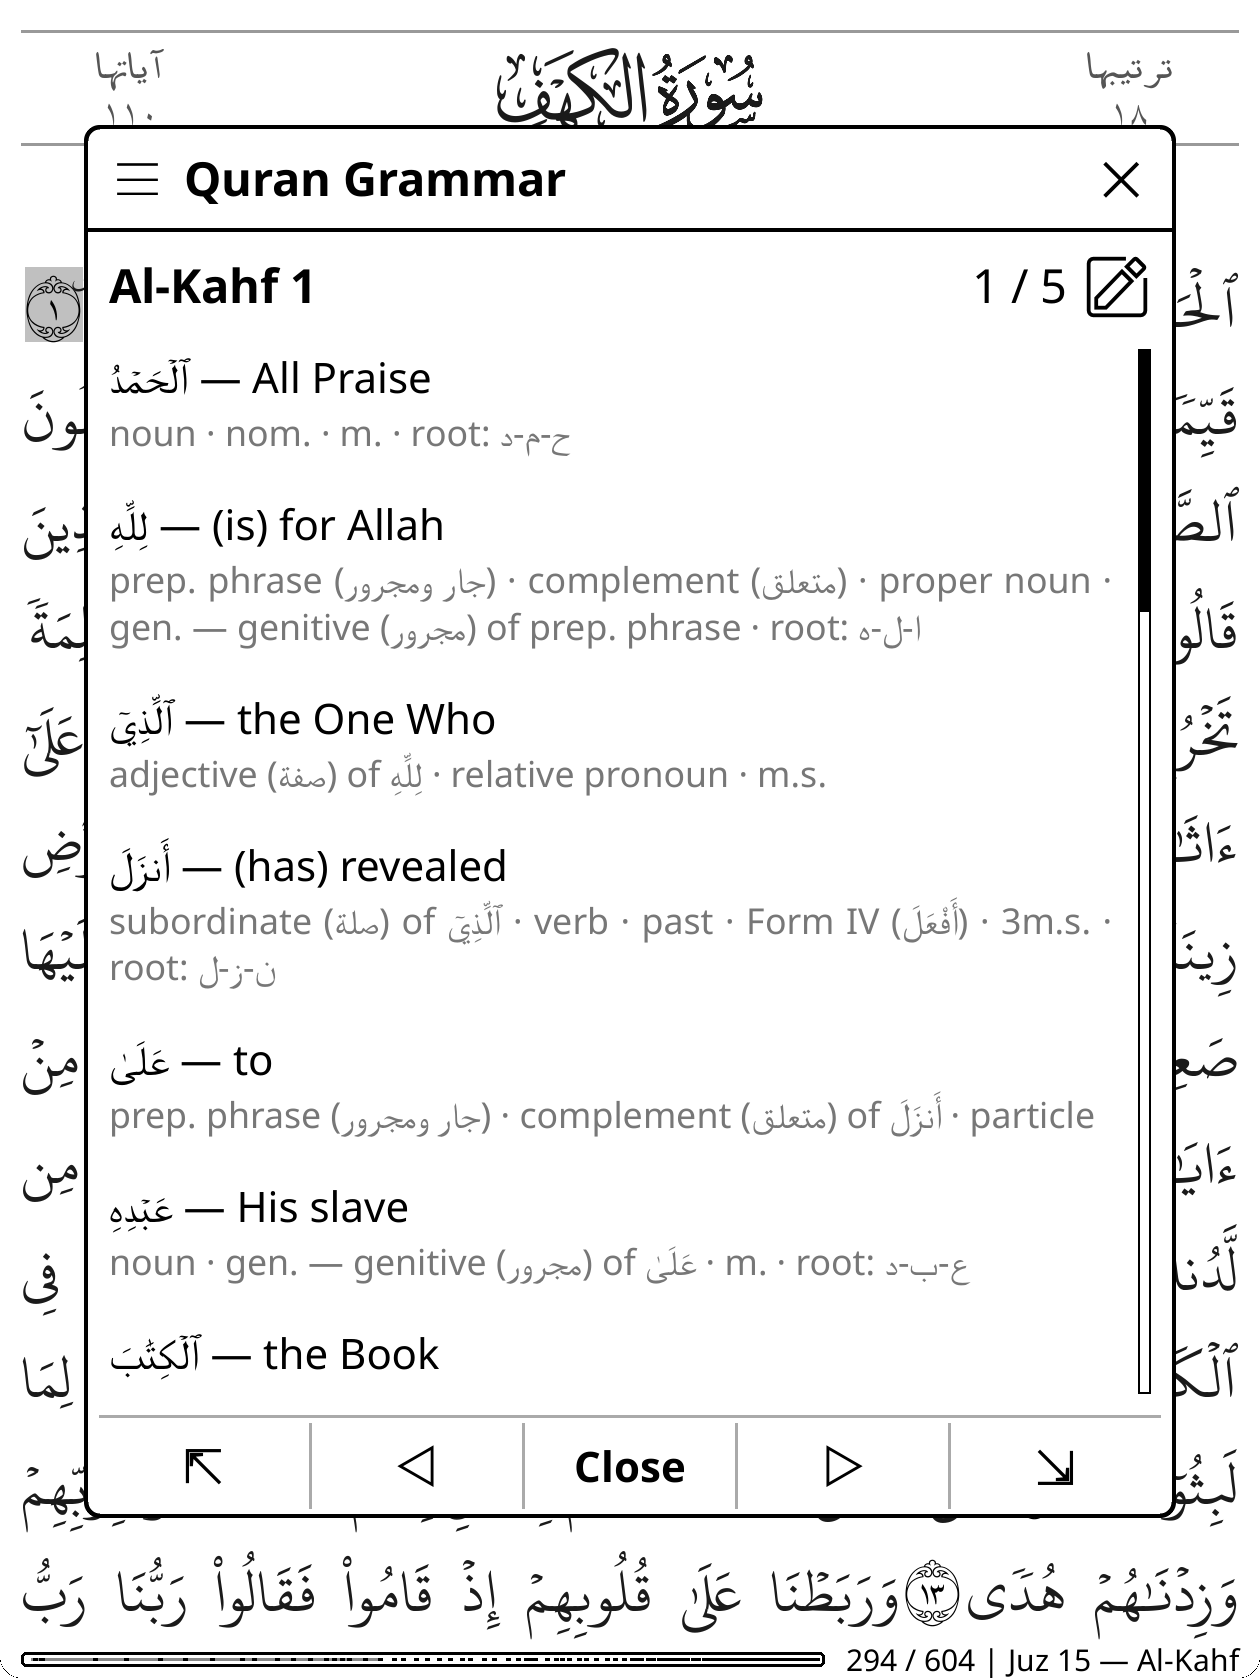
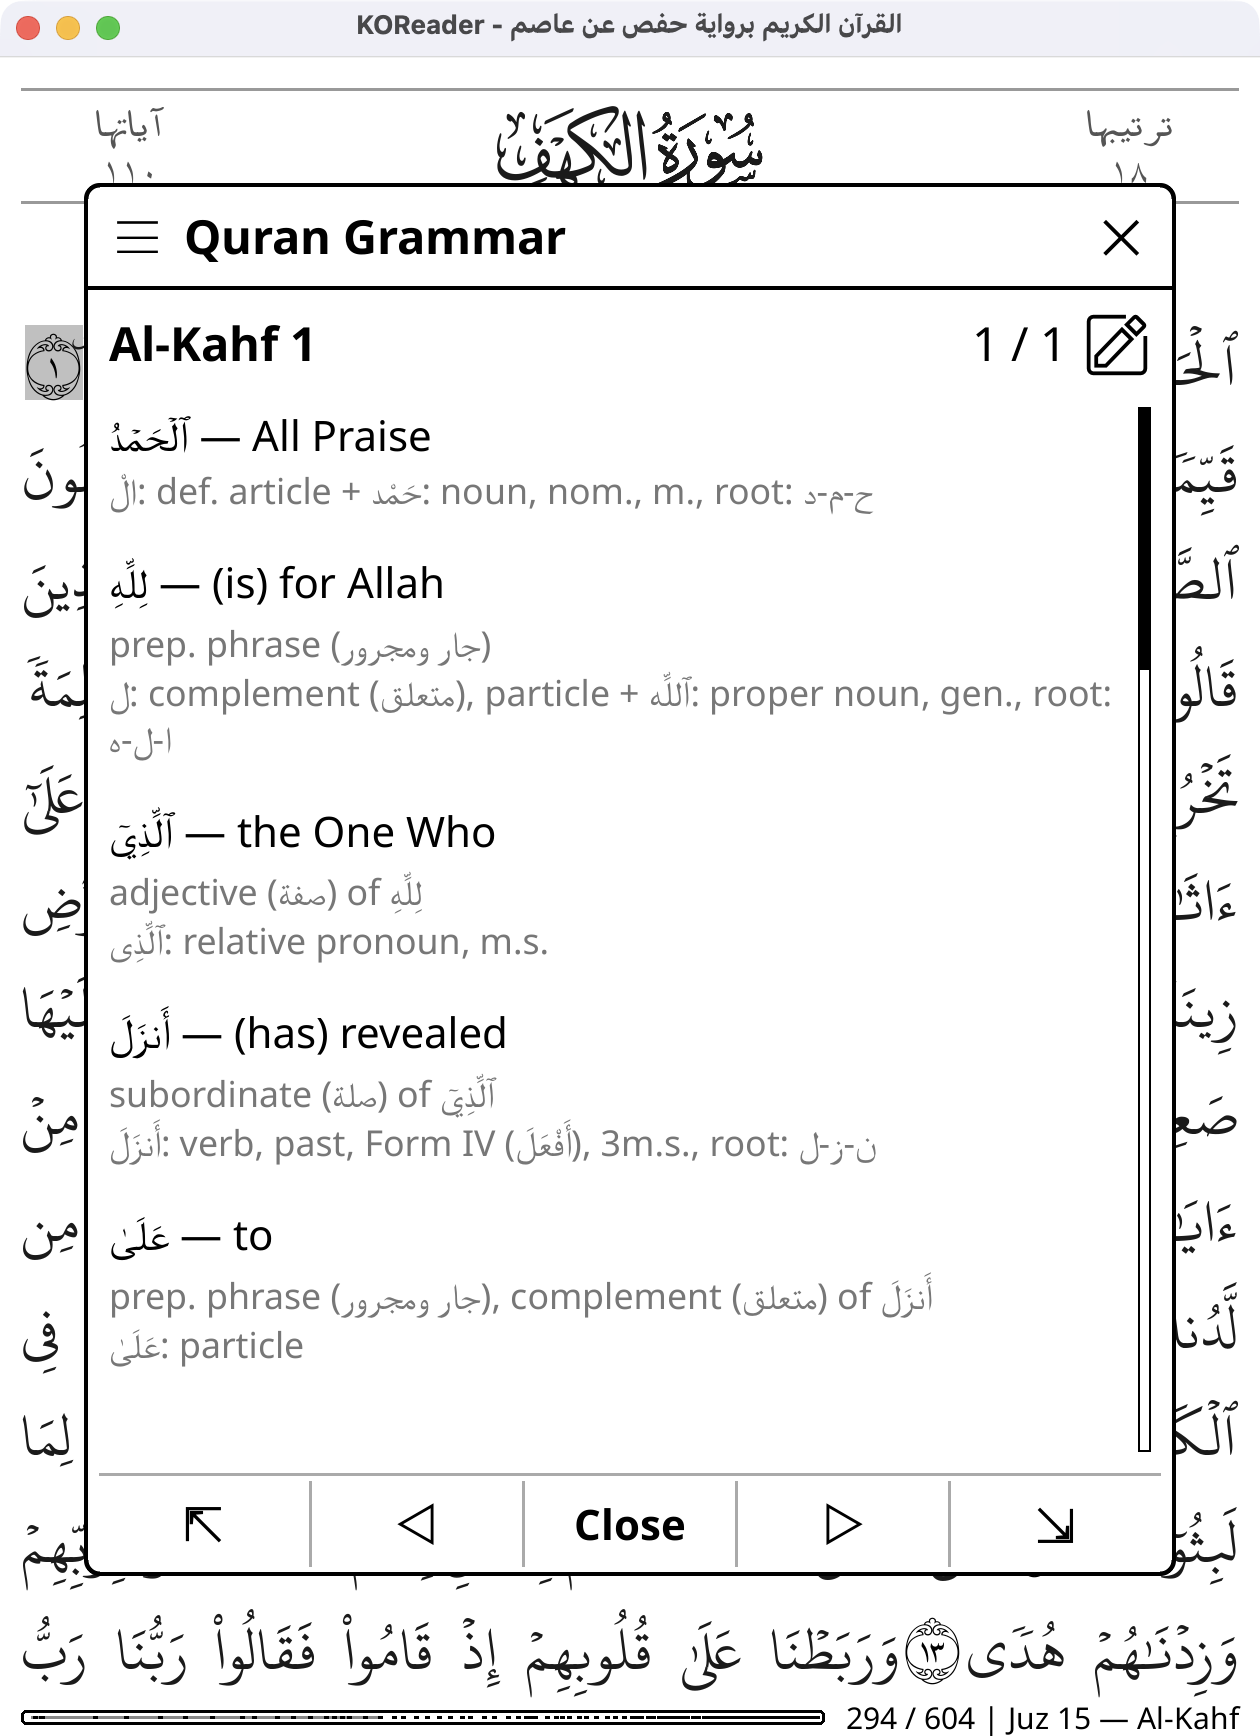
grammar dictionary: display polish and cross-ayah references
- Rename "conjunction" role label to "conjoined" to distinguish syntactic
  role (conjoined with X) from POS label (conjunction particle)
- Cross-ayah references show target word + ayah location instead of vague
  phrase type fallback (e.g. "conjoined (معطوف) with يُنذر in 18:2")
- Per-role prepositions: "conj" uses "with", others default to "of"
- Use comma separator instead of center dot for lighter visual weight
- I'rab section: dir="rtl" on paragraphs for correct BiDi base direction
  (fixes ornamental bracket placement and text alignment)

diff --git a/tools/build_grammar_dictionary.py b/tools/build_grammar_dictionary.py
@@ -94,7 +94,7 @@ SYNTAX_ROLE_LABELS = {
     "gen": ("genitive", "مجرور"),
     "poss": ("possessive", "مضاف إليه"),
     "adj": ("adjective", "صفة"),
-    "conj": ("conjunction", "عطف"),
+    "conj": ("conjoined", "معطوف"),
     "sub": ("subordinate", "تابع"),
     "link": ("complement", "متعلق"),
     "circ": ("circumstantial", "حال"),
@@ -388,6 +388,7 @@ def load_eqtb(path: Path) -> tuple[dict, dict, dict]:
             ref_id = int(row["ref_token_id"])
             source_word_pos = None
             source_phrase = None
+            source_ayah_ref = None  # cross-ayah: "ch:vs" string
             if ref_id in token_map:
                 src_row = token_map[ref_id]
                 src_loc = _eqtb_val(src_row, "location")
@@ -396,6 +397,10 @@ def load_eqtb(path: Path) -> tuple[dict, dict, dict]:
                     src_ayah = f"{src_parts[0]}:{src_parts[1]}"
                     if src_ayah == ayah_key:
                         source_word_pos = int(src_parts[2])
+                    else:
+                        # Cross-ayah: store "ch:vs" + target word text
+                        src_token = src_row.get("uthmani_token", "")
+                        source_ayah_ref = (src_ayah, src_token)
                 src_cl = _eqtb_val(src_row, "constituent_label")
                 if src_cl and src_cl in PHRASE_TYPE_LABELS:
                     source_phrase = src_cl
@@ -411,6 +416,7 @@ def load_eqtb(path: Path) -> tuple[dict, dict, dict]:
                 "ar": ar_label,
                 "source_word": source_word_pos,
                 "source_phrase": source_phrase,
+                "source_ayah_ref": source_ayah_ref,
                 "seg_num": seg_num,
             }
 
@@ -612,12 +618,25 @@ def _bidi_paren(ar: str) -> str:
     return f"\u200E({ar}\u200E)"
 
 
+def _role_preposition(role: str) -> str:
+    """Preposition connecting a role label to its target word."""
+    return _ROLE_PREPOSITIONS.get(role, "of")
+
+
+# Roles that use a preposition other than "of" when showing targets
+_ROLE_PREPOSITIONS: dict[str, str] = {
+    "conj": "with",
+}
+
+
 def _format_role(role_dict: dict, qpc_words: list[str] | None,
                   current_word_pos: int = 0) -> str:
     """Format a single syntax role, with target word for relational roles."""
     en, ar, role = role_dict["en"], role_dict["ar"], role_dict["role"]
     source_word = role_dict.get("source_word")
     source_phrase = role_dict.get("source_phrase")
+    source_ayah_ref = role_dict.get("source_ayah_ref")
+    prep = _role_preposition(role)
 
     # Show target word for relational roles (skip if same word)
     # Format: "predicate (خبر) of ٱللَّهُ" — keeps Arabic label with its English term
@@ -629,11 +648,17 @@ def _format_role(role_dict: dict, qpc_words: list[str] | None,
         elif source_word is not None and qpc_words:
             idx = source_word - 1
             if 0 <= idx < len(qpc_words):
-                return f"{en} {_bidi_paren(ar)} of {qpc_words[idx]}"
+                return f"{en} {_bidi_paren(ar)} {prep} {qpc_words[idx]}"
+        elif source_ayah_ref:
+            # Cross-ayah reference: show target word + ayah location
+            ref_ayah, ref_token = source_ayah_ref
+            if ref_token:
+                return f"{en} {_bidi_paren(ar)} {prep} {ref_token} in {ref_ayah}"
+            return f"{en} {_bidi_paren(ar)} in {ref_ayah}"
         elif source_phrase:
             pt = PHRASE_TYPE_LABELS.get(source_phrase)
             if pt:
-                return f"{en} {_bidi_paren(ar)} of {pt[0]}"
+                return f"{en} {_bidi_paren(ar)} {prep} {pt[0]}"
 
     return f"{en} {_bidi_paren(ar)}"
 
@@ -706,14 +731,22 @@ def _format_seg_morph(seg: dict, linked_case_role: dict | None,
                     target = ""
                     src_word = linked_case_role.get("source_word")
                     src_phrase = linked_case_role.get("source_phrase")
+                    src_ayah_ref = linked_case_role.get("source_ayah_ref")
+                    prep = _role_preposition(linked_case_role.get("role", ""))
                     if src_word is not None and qpc_words:
                         idx = src_word - 1
                         if 0 <= idx < len(qpc_words):
-                            target = f" of {qpc_words[idx]}"
+                            target = f" {prep} {qpc_words[idx]}"
+                    elif src_ayah_ref:
+                        ref_ayah, ref_token = src_ayah_ref
+                        if ref_token:
+                            target = f" {prep} {ref_token} in {ref_ayah}"
+                        else:
+                            target = f" in {ref_ayah}"
                     elif src_phrase:
                         pt = PHRASE_TYPE_LABELS.get(src_phrase)
                         if pt:
-                            target = f" of {pt[0]}"
+                            target = f" {prep} {pt[0]}"
                     case_str += f", {_bidi_paren(ar)}{target}"
             info.append(case_str)
         state = seg.get("nominal_state")
@@ -858,7 +891,7 @@ def format_word_line(
                 _format_seg_morph(seg, linked, qpc_words, word_pos))
 
             if seg_items:
-                seg_str = " · ".join(seg_items)
+                seg_str = ", ".join(seg_items)
                 if len(segments) > 1:
                     seg_blocks.append(f"{display}: {seg_str}")
                 else:
@@ -918,10 +951,10 @@ def format_word_line(
     # Render: word-level on its own line, morpheme info on the next
     _INFO_STYLE = 'style="color:#777;font-size:85%"'
     if word_level_parts:
-        wl_str = " · ".join(word_level_parts)
+        wl_str = ", ".join(word_level_parts)
         parts.append(f'<br/><span {_INFO_STYLE}>{wl_str}</span>')
     if morph_parts:
-        morph_str = " · ".join(morph_parts)
+        morph_str = ", ".join(morph_parts)
         parts.append(f'<br/><span {_INFO_STYLE}>{morph_str}</span>')
 
     return "".join(parts)
@@ -988,7 +1021,7 @@ def format_irab_html(irab_entries: list[str]) -> list[str]:
     """Format i'rab entries as HTML paragraphs."""
     html_parts = []
     html_parts.append("<hr/>")
-    html_parts.append('<p style="color:#666;text-align:right">إعراب</p>')
+    html_parts.append('<p dir="rtl" style="color:#666">إعراب</p>')
     for analysis in irab_entries:
         analysis = _clean_irab_text(analysis)
         colon_pos = analysis.find(":")
@@ -996,12 +1029,12 @@ def format_irab_html(irab_entries: list[str]) -> list[str]:
             word_part = analysis[:colon_pos].strip()
             rest = analysis[colon_pos + 1:].strip()
             html_parts.append(
-                f'<p style="font-size:120%;text-align:right">{word_part}: '
+                f'<p dir="rtl" style="font-size:120%">{word_part}: '
                 f'<span style="color:#444">{rest}</span></p>'
             )
         else:
             html_parts.append(
-                f'<p style="color:#444;font-size:120%;text-align:right">{analysis.strip()}</p>'
+                f'<p dir="rtl" style="color:#444;font-size:120%">{analysis.strip()}</p>'
             )
     return html_parts
 
